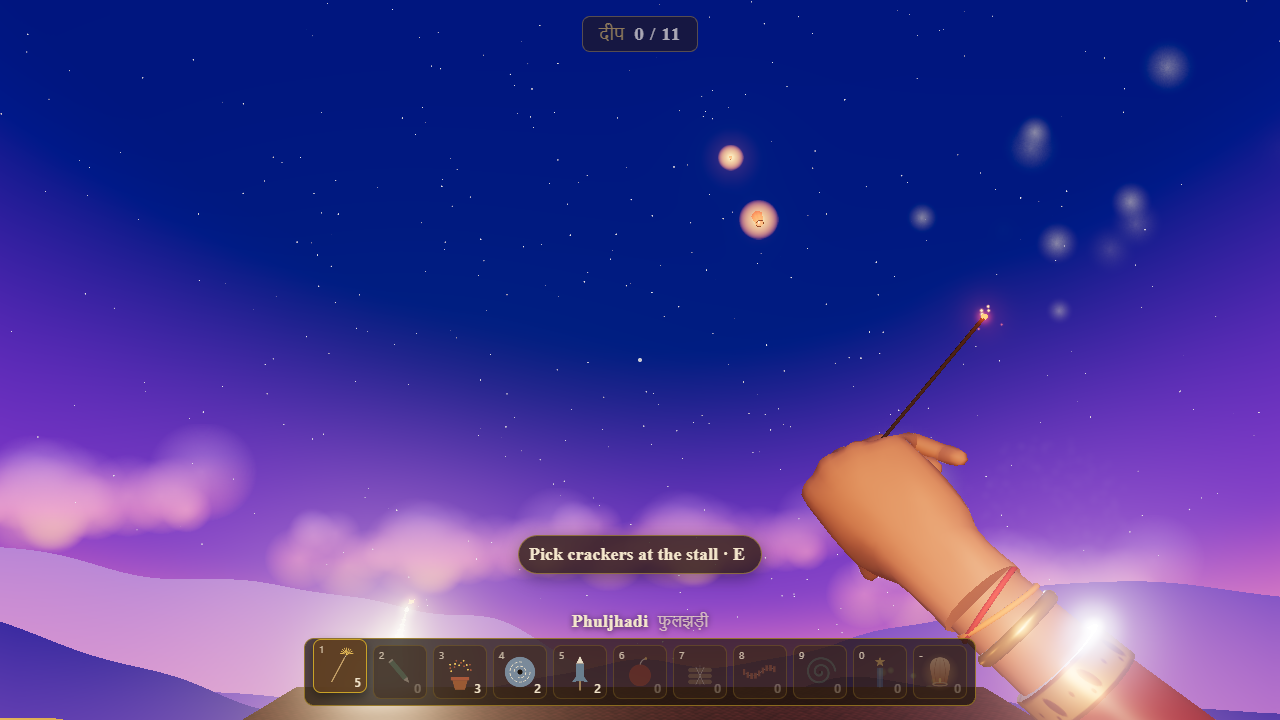
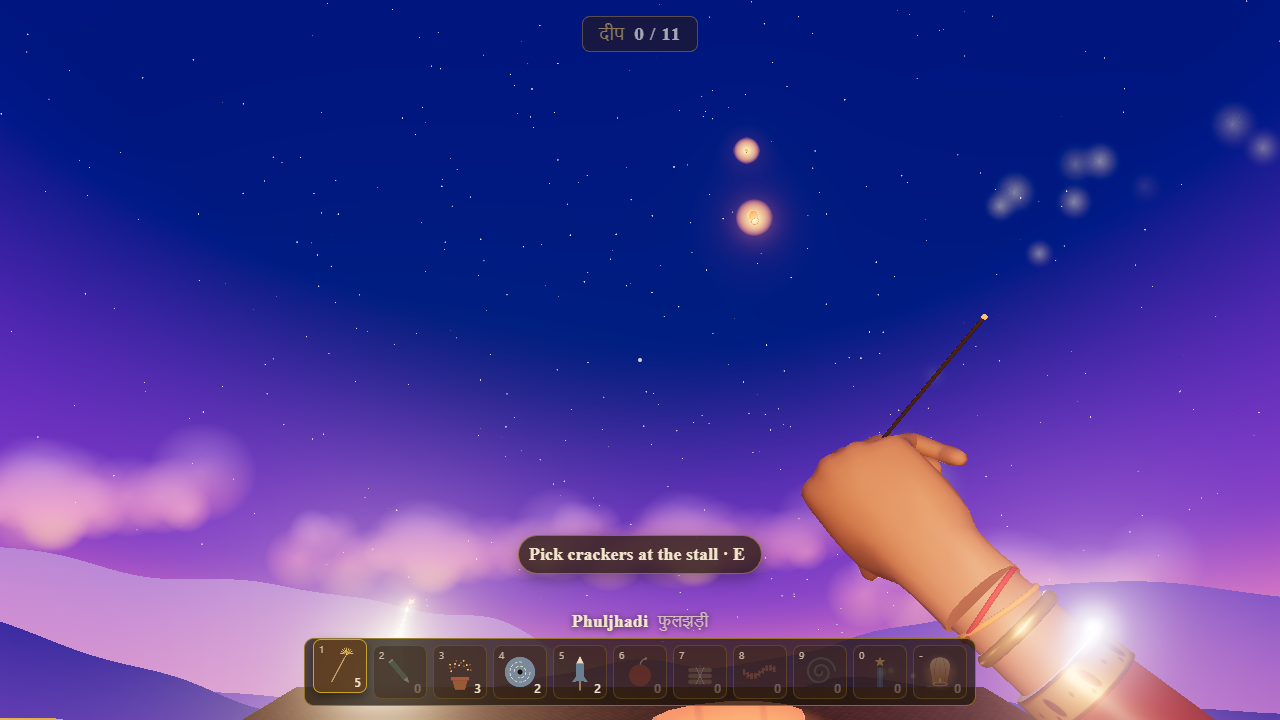
test: e2e shots for the diya row and sky lanterns

diff --git a/tests/e2e/smoke.spec.ts b/tests/e2e/smoke.spec.ts
@@ -214,3 +214,46 @@ test('the sky show is shot from a tilted view during a salvo', async ({ page }) 
   expect((await pixelStats(page, sky)).mean).toBeGreaterThan(MIN_MEAN_LUMINANCE);
   expect(errors).toEqual([]);
 });
+
+test('the verandah diyas light up and the counter reads 11 / 11', async ({ page }) => {
+  const errors = await watchErrors(page);
+  await page.goto('/?debug');
+  await startFromIntro(page);
+
+  // Stand in front of the verandah, looking down at the row, and light all eleven lamps.
+  await page.evaluate(() => {
+    const d = window.__diwali!;
+    d.teleport(0, -2.6, 0, -0.42);
+    d.lightDiyas();
+    d.advance(2.2);
+  });
+  await page.waitForTimeout(VIEW_SETTLE_MS);
+  const diyas = await page.screenshot({ path: 'screenshots/diyas.png' });
+
+  await expect(page.locator('.diya-counter')).toContainText('11 / 11');
+  expect((await pixelStats(page, diyas)).mean).toBeGreaterThan(MIN_MEAN_LUMINANCE);
+  expect(errors).toEqual([]);
+});
+
+test('sky lanterns rise into the night, one still in the hand', async ({ page }) => {
+  const errors = await watchErrors(page);
+  await page.goto('/?debug');
+  await startFromIntro(page);
+
+  // Three lanterns released at different times, so the sky shows them at three heights, and the last just lit.
+  await page.evaluate(() => {
+    const d = window.__diwali!;
+    d.teleport(0, 8, 0, 0.72);
+    for (const climb of [25, 14, 8]) {
+      d.releaseLantern();
+      d.advance(climb);
+    }
+    d.releaseLantern();
+    d.advance(1.7);
+  });
+  await page.waitForTimeout(VIEW_SETTLE_MS);
+  const lantern = await page.screenshot({ path: 'screenshots/lantern.png' });
+
+  expect((await pixelStats(page, lantern)).mean).toBeGreaterThan(MIN_MEAN_LUMINANCE);
+  expect(errors).toEqual([]);
+});
